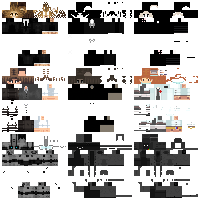
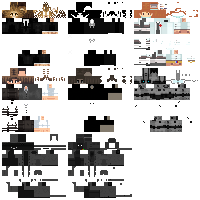
feat: can w.npc.getSkinMeta but will not customize metalness

Changed region(s): [[0.0, 0.0, 0.99, 0.99], [0.6, 0.9, 0.63, 0.93], [0.45, 0.81, 0.48, 0.84]]

diff --git a/packages/ui/world/src/components/NPCs.tsx b/packages/ui/world/src/components/NPCs.tsx
@@ -111,9 +111,7 @@ export default function NPCs() {
         const skinTex = tslTexture(w.texSkin.tex, uv()).depth(skinIndexUniform);
         const ndotv = normalWorld.dot(cameraPosition.sub(positionWorld).normalize()).clamp(0, 1).mul(npcBrightness);
         const mainColor = vec4(
-          // scale towards black:
           // skinTex.rgb.mul(ndotv).mul(colorScale).clamp(0, 1),
-          // scale towards specific colour:
           // mix(vec3(0.4, 1, 1), skinTex.rgb.mul(ndotv), colorScale),
           mix(vec3(0.4, 1, 1).mul(positionLocal.y), skinTex.rgb.mul(ndotv), colorScale),
           skinTex.a.mul(opacityScale),
@@ -134,6 +132,8 @@ export default function NPCs() {
           transparent: true,
           depthWrite: true,
           side: THREE.FrontSide, // one draw call
+          // - keep these fixed or they'll effect label quad
+          // - could add metalness map but we'll handle via SVG edit instead
           metalness: 0,
           roughness: 1,
         });
@@ -172,8 +172,10 @@ export default function NPCs() {
           skinnedMesh: opts.skinnedMesh,
           ...state.createMaterials(opts.pickId, opts.skinIndex),
         });
+
         npc.init();
         npc.drawLabel();
+
         state.npc[opts.key] = npc;
         state.byPickId[npc.pickId] = npc;
         return npc;
@@ -269,8 +271,16 @@ export default function NPCs() {
         }
         return result;
       },
-      getSkinIndex(skinKey) {
+      getSkinIndexBySkinKey(skinKey) {
         return state.skin.entries.findIndex((entry) => entry.key === skinKey);
+      },
+      getSkinKeyBySkinIndex(skinIndex) {
+        return state.skin.entries[skinIndex].key;
+      },
+      getSkinMeta(skinKey: string) {
+        const { manifest } = state.skin;
+        const { meta } = manifest.byKey[skinKey];
+        return meta;
       },
       async move({ npcKey, to, arrive = true, fast }) {
         const npc = state.get(npcKey);
@@ -455,7 +465,7 @@ export default function NPCs() {
             position: helper.groundPointToVector3(opts.groundPoint).setY(positionY),
             rotation,
             skinnedMesh: clonedSkinnedMesh,
-            skinIndex: state.getSkinIndex(opts.as ?? "medic-0"),
+            skinIndex: state.getSkinIndexBySkinKey(opts.as ?? "medic-0"),
           });
         }
 
@@ -621,7 +631,7 @@ export default function NPCs() {
 
   w.r3fStore = useReactThreeFiberStore();
 
-  useEffect(() => void (import.meta.env.DEV && state.devHotReload()), []);
+  useEffect(() => void (import.meta.env.DEV && state.devHotReload()), [queryData?.gltf]);
 
   return (
     state.gltf &&
@@ -704,7 +714,9 @@ export type State = {
     queryFilter?: QueryFilter,
   ): FindNearestPolyResult;
   get(npcKey: string): Npc;
-  getSkinIndex(skinKey: string): number;
+  getSkinIndexBySkinKey(skinKey: string): number;
+  getSkinKeyBySkinIndex(skinIndex: number): string;
+  getSkinMeta(skinKey: string): Meta;
   move(opts: JshCli.MoveOpts): Promise<void>;
   onTick(delta: number): void;
   rawSpawn(opts: {

diff --git a/packages/cli/src/jsh/world/core.js b/packages/cli/src/jsh/world/core.js
@@ -637,7 +637,7 @@ export function skin({ api, args, w }, opts = api.jsArg(args, { npc: "npcKey" })
   const npc = w.npc.get(opts.npcKey);
   const skinKey = opts.as ?? (api.getJsOperands(args, opts)[0] || "medic-0");
 
-  if (w.npc.getSkinIndex(skinKey) === -1) {
+  if (w.npc.getSkinIndexBySkinKey(skinKey) === -1) {
     throw Error(`skin "${skinKey}" not found`);
   }
   npc.setSkin(skinKey);

diff --git a/packages/ui/world/src/components/npc.ts b/packages/ui/world/src/components/npc.ts
@@ -357,7 +357,7 @@ export class Npc {
   }
 
   setSkin(skinKey?: string) {
-    const skinIndex = this.w.npc.getSkinIndex(skinKey ?? "medic-0");
+    const skinIndex = this.w.npc.getSkinIndexBySkinKey(skinKey ?? "medic-0");
     console.warn(`${this.key}: skin "${skinKey}" not found`);
     this.skinIndexUniform.value = skinIndex;
   }

diff --git a/TODO.md b/TODO.md
@@ -398,7 +398,11 @@ w decor.byKey.test-decor-point
   - ✅ add dark skins
   - 🚧 touch up
     - ✅ human-2
+    - ✅ npc main material metalness, roughness determined by skin
+      - can be specified as meta of skin e.g. metalness=0.4
+    - ✅ remove human-2
     - 🚧 robot-0
+    - 🚧 medic-0
     - robot-1, demon-0, robot-2
   - ensure SVG meta
 
